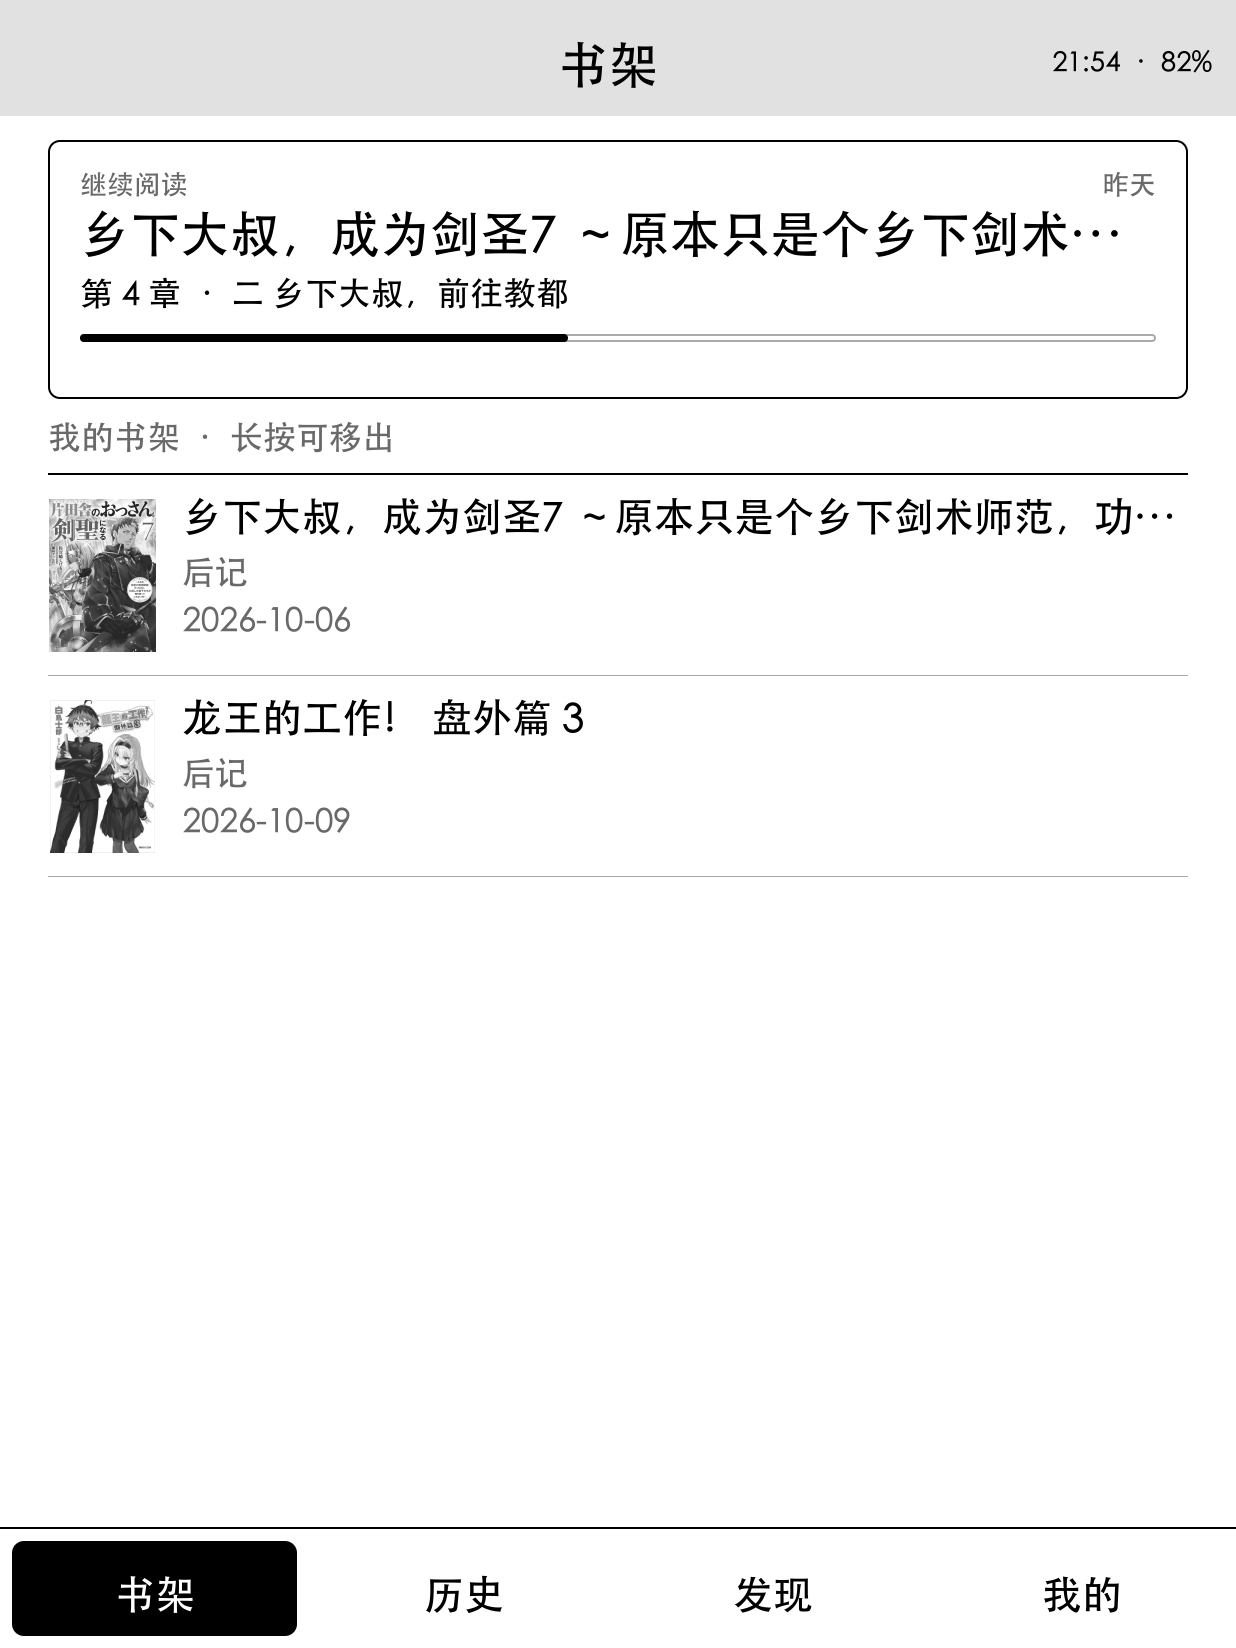
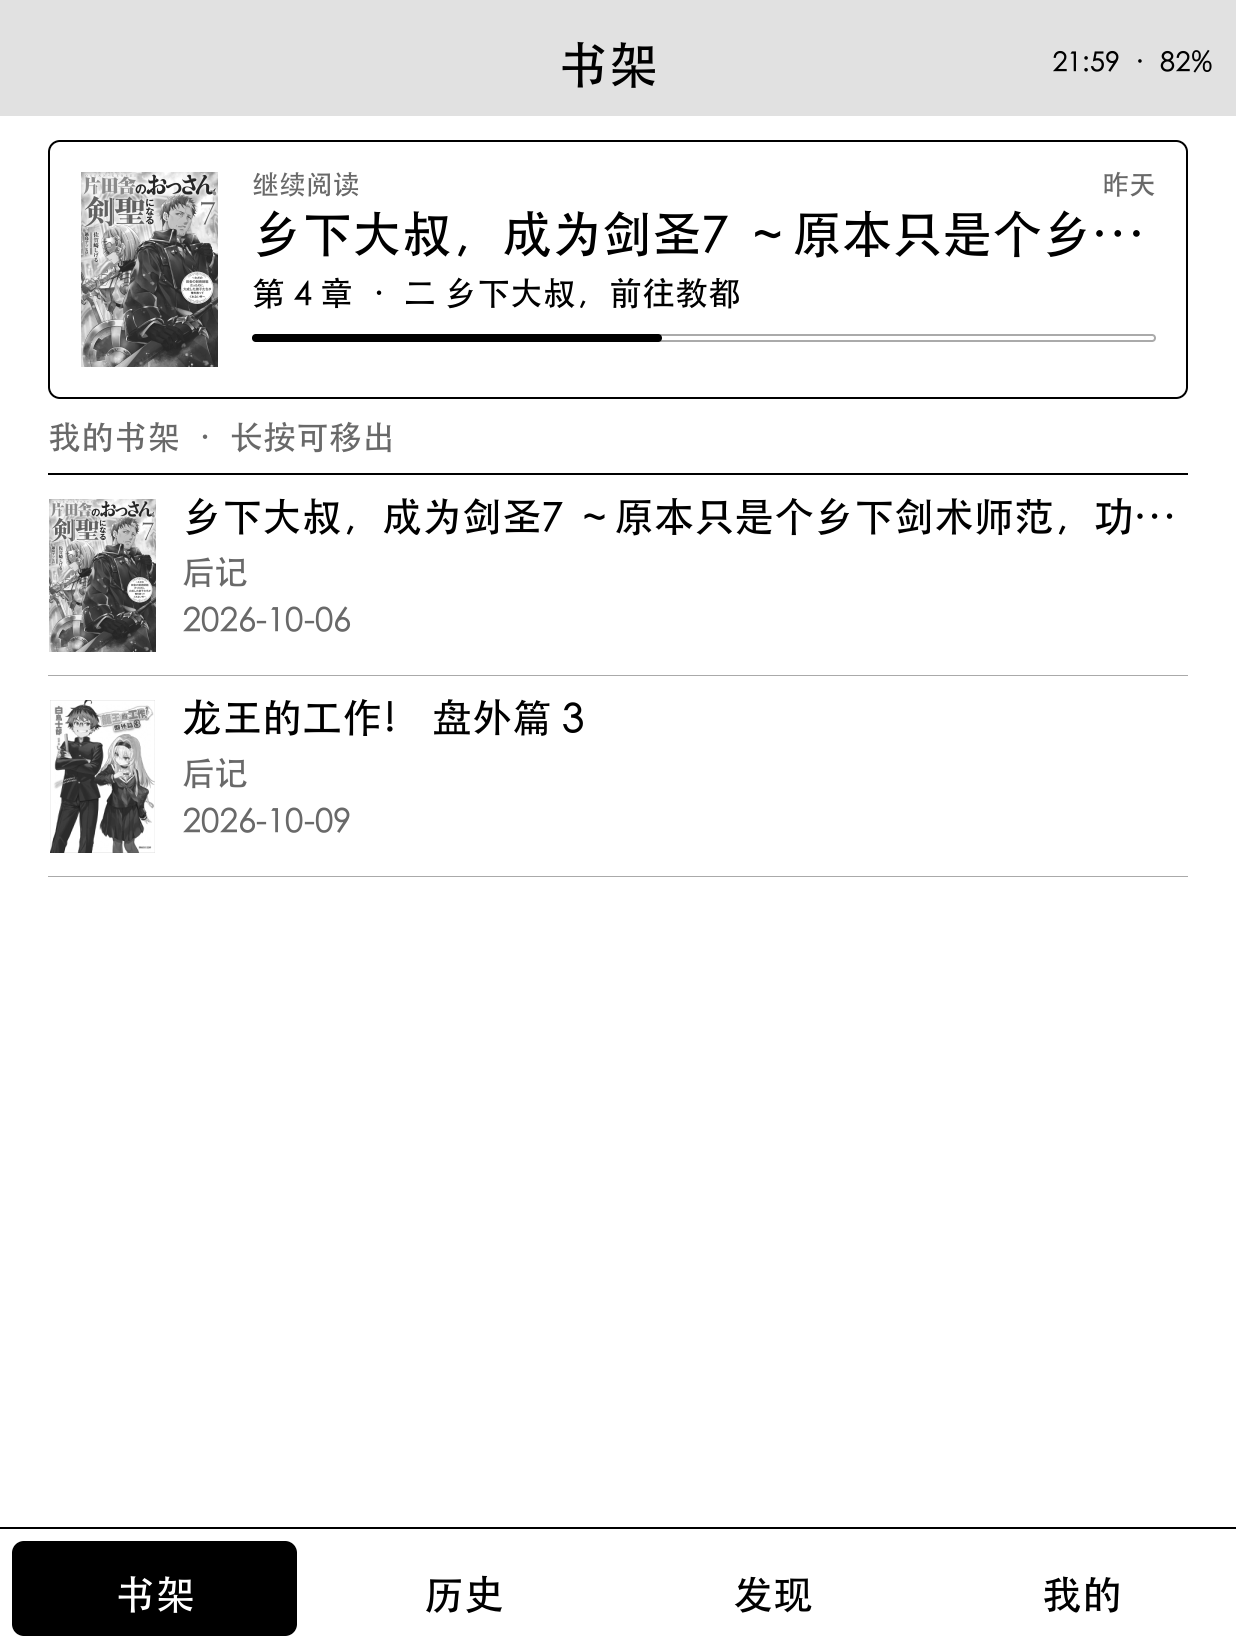
feat(shelf): 继续阅读卡片左侧显示封面
- 最近阅读记录多存一个封面地址 (书目接口里见过的; 新记录没有时沿用同一本书的旧值)
- 不知道封面地址时用缓存的第一章里的第一张图 (卷首图)
- 封面在后台加载, 未加载好时画占位框; 没有任何图片时卡片保持原样
- README 书架截图更新

Changed region(s): [[0.0615, 0.0928, 0.8916, 0.2476]]

diff --git a/rust/crates/kn-app/src/pages/shelf.rs b/rust/crates/kn-app/src/pages/shelf.rs
@@ -42,6 +42,8 @@ struct CachedBook {
 
 struct Loaded {
     last: Option<LastRead>,
+    /// 继续阅读卡片的封面: 记录里的封面地址, 没有就用第一章的卷首图
+    last_cover: String,
     books: Vec<CachedBook>,
 }
 
@@ -57,7 +59,23 @@ fn load(paths: &store::Paths) -> Loaded {
     if let Some(l) = &last {
         books.sort_by_key(|b| b.book_id != l.book_id);
     }
-    Loaded { last, books }
+    let last_cover = match &last {
+        Some(l) if !l.cover.is_empty() => l.cover.clone(),
+        Some(l) => crate::sleep::known_cover(l.book_id).or_else(|| store::first_image_of_book(paths, l.book_id)).unwrap_or_default(),
+        None => String::new(),
+    };
+    Loaded { last, last_cover, books }
+}
+
+/// 继续阅读卡片的高度与其中封面的位置 (卡片内边距之内, 宽高比 0.72)。
+fn continue_layout(m: &kn_ui::widgets::Metrics, rect: Rect) -> Rect {
+    let pad = m.margin as i32 / 2 + 8;
+    let h = (rect.h as i32 - 2 * pad).max(1);
+    Rect::new(rect.x + pad, rect.y + pad, ((h as f32) * 0.72) as u32, h as u32)
+}
+
+fn continue_h(m: &kn_ui::widgets::Metrics) -> u32 {
+    (m.touch as f32 * 2.45) as u32
 }
 
 /// 列表分页: 可用高度里放得下几行。
@@ -110,18 +128,33 @@ fn draw_folder_icon(frame: &mut Bitmap, theme: &kn_ui::Theme, m: &kn_ui::widgets
 }
 
 /// "继续阅读" 卡片 (整张卡片可点)。
-fn draw_continue(frame: &mut Bitmap, ink: &mut Ink, hits: &mut kn_ui::Hits, theme: kn_ui::Theme, m: kn_ui::widgets::Metrics, rect: Rect, last: &LastRead) {
+/// 有封面地址时左侧画封面 (未加载好是占位框), 文字右移。
+#[allow(clippy::too_many_arguments)]
+fn draw_continue(frame: &mut Bitmap, ink: &mut Ink, hits: &mut kn_ui::Hits, theme: kn_ui::Theme, m: kn_ui::widgets::Metrics, rect: Rect, last: &LastRead, cover: Option<Option<&Bitmap>>) {
     widgets::card(frame, &theme, &m, rect);
     let pad = m.margin as i32 / 2 + 8;
-    let inner = rect.w as i32 - 2 * pad;
+    let mut left = rect.x + pad;
+    if let Some(img) = cover {
+        let slot = continue_layout(&m, rect);
+        match img {
+            Some(img) => {
+                let dx = slot.x + (slot.w as i32 - img.width() as i32) / 2;
+                let dy = slot.y + (slot.h as i32 - img.height() as i32) / 2;
+                frame.blit(img, img.bounds(), dx, dy);
+            }
+            None => crate::covers::placeholder(frame, &theme, &m, slot),
+        }
+        left = slot.right() + pad;
+    }
+    let inner = rect.right() - pad - left;
     let mut y = rect.y + pad;
-    ink.text(frame, rect.x + pad, y, "继续阅读", m.tiny, theme.muted);
+    ink.text(frame, left, y, "继续阅读", m.tiny, theme.muted);
     let when = super::relative_time(last.time);
     let when_w = ink.width(&when, m.tiny).ceil() as i32;
     ink.text(frame, rect.right() - pad - when_w, y, &when, m.tiny, theme.muted);
     y += (m.tiny * 1.5) as i32;
     let name = ink.fit(&last.book_name, m.title, inner as f32);
-    ink.text(frame, rect.x + pad, y, &name, m.title, theme.foreground);
+    ink.text(frame, left, y, &name, m.title, theme.foreground);
     y += (m.title * 1.35) as i32;
     // 漫画的话名通常自带 "第N话", 不再加前缀; 页码直接写出来 (漫画没有章内百分比的概念)
     let chapter = if last.comic {
@@ -131,11 +164,11 @@ fn draw_continue(frame: &mut Bitmap, ink: &mut Ink, hits: &mut kn_ui::Hits, them
         format!("第 {} 章 · {}", last.sort_num, last.chapter_title)
     };
     let chapter = ink.fit(&chapter, m.small, inner as f32);
-    ink.text(frame, rect.x + pad, y, &chapter, m.small, theme.foreground);
+    ink.text(frame, left, y, &chapter, m.small, theme.foreground);
     y += (m.small * 1.5) as i32;
     // 章内进度条
     let track_h = (8.0 * m.scale).max(6.0) as u32;
-    let track = Rect::new(rect.x + pad, y + 6, inner as u32, track_h);
+    let track = Rect::new(left, y + 6, inner as u32, track_h);
     frame.rounded_rect(track, track_h / 2, Some(theme.background), Some(theme.mid), 2);
     if last.pages > 0 {
         let filled = (inner as f32 * (last.page + 1) as f32 / last.pages as f32).max(track_h as f32) as u32;
@@ -335,7 +368,7 @@ impl ShelfPage {
             let list_bottom = tabs_top - m.pager_h() as i32;
             let mut y = m.header_h() as i32 + m.margin as i32 / 2;
             if show_continue {
-                y += (m.touch as f32 * 2.45) as i32 + m.margin as i32 / 2;
+                y += continue_h(&m) as i32 + m.margin as i32 / 2;
             }
             y += (m.small * 1.6) as i32;
             let row_h = m.row_h_cover();
@@ -347,6 +380,15 @@ impl ShelfPage {
                 if let ShelfEntry::Book(book) = entry {
                     self.covers.request(cx, &book.cover, cover_rect.w, cover_rect.h);
                 }
+            }
+        }
+
+        // 继续阅读卡片的封面 (与下面绘制时的位置一致)
+        let continue_rect = Rect::new(m.margin as i32, m.header_h() as i32 + m.margin as i32 / 2, cx.width - 2 * m.margin, continue_h(&m));
+        let continue_slot = continue_layout(&m, continue_rect);
+        if let Some(data) = &self.data {
+            if data.last.is_some() && !data.last_cover.is_empty() {
+                self.covers.request(cx, &data.last_cover, continue_slot.w, continue_slot.h);
             }
         }
 
@@ -368,9 +410,9 @@ impl ShelfPage {
             return;
         };
         if let Some(last) = data.last.clone().filter(|_| show_continue || !cloud_mode) {
-            let h = (m.touch as f32 * 2.45) as u32;
-            let rect = Rect::new(side, y, cx.width - 2 * m.margin, h);
-            draw_continue(frame, &mut ink, cx.hits, theme, m, rect, &last);
+            let rect = Rect::new(side, y, cx.width - 2 * m.margin, continue_h(&m));
+            let cover = (!data.last_cover.is_empty()).then(|| self.covers.get(&data.last_cover, continue_slot.w, continue_slot.h));
+            draw_continue(frame, &mut ink, cx.hits, theme, m, rect, &last, cover);
             y = rect.bottom() + m.margin as i32 / 2;
         }
         let list_bottom = tabs_top - m.pager_h() as i32;

diff --git a/rust/crates/kn-app/src/store.rs b/rust/crates/kn-app/src/store.rs
@@ -284,6 +284,8 @@ pub struct LastRead {
     pub pages: usize,
     /// Unix 秒
     pub time: i64,
+    /// 封面地址 (书目接口给的; 不知道时为空, 书架卡片改用第一章的卷首图)
+    pub cover: String,
 }
 
 impl Paths {
@@ -304,14 +306,21 @@ pub fn load_last_read(paths: &Paths) -> Option<LastRead> {
         page: as_i64(v.get("page")).max(0) as usize,
         pages: as_i64(v.get("pages")).max(0) as usize,
         time: as_i64(v.get("time")),
+        cover: as_string(v.get("cover")),
     })
     .filter(|r| r.book_id > 0 && if r.comic { r.chapter_id > 0 } else { r.sort_num > 0 })
 }
 
+/// 保存最近阅读。`cover` 为空时沿用上一条记录里同一本书的封面地址。
 pub fn save_last_read(paths: &Paths, r: &LastRead) -> std::io::Result<()> {
+    let cover = if r.cover.is_empty() {
+        load_last_read(paths).filter(|old| old.book_id == r.book_id).map(|old| old.cover).unwrap_or_default()
+    } else {
+        r.cover.clone()
+    };
     let v = serde_json::json!({
         "book_id": r.book_id, "sort_num": r.sort_num, "comic": r.comic, "chapter_id": r.chapter_id, "book_name": r.book_name,
-        "chapter_title": r.chapter_title, "page": r.page, "pages": r.pages, "time": r.time,
+        "chapter_title": r.chapter_title, "page": r.page, "pages": r.pages, "time": r.time, "cover": cover,
     });
     atomic_write(&paths.last_read_file(), v.to_string().as_bytes())
 }
@@ -398,6 +407,16 @@ pub fn touch(path: &Path) {
 }
 
 /// 缓存目录里的章节 (书名、章节名、序号), 供离线书架使用。按书名、序号排序。
+/// 一本书缓存的第一章 (序号 1) 里的第一张图 (卷首图, 通常就是封面); 没缓存或没有图返回 None。
+pub fn first_image_of_book(paths: &Paths, book_id: i64) -> Option<String> {
+    let (_, file) = list_cached_chapters(paths).into_iter().find(|(c, _)| c.book_id == book_id && c.sort_num == 1)?;
+    let chapter = Chapter::parse(&std::fs::read(file).ok()?, true)?;
+    kn_text::extract_blocks(&chapter.content, SITE_BASE)
+        .into_iter()
+        .find(|b| b.kind == kn_text::BlockKind::Image && !b.source_url.is_empty())
+        .map(|b| b.source_url)
+}
+
 pub fn list_cached_chapters(paths: &Paths) -> Vec<(Chapter, PathBuf)> {
     let mut out = Vec::new();
     let Ok(dir) = std::fs::read_dir(paths.cache_dir().join("content")) else {

diff --git a/rust/crates/kn-app/src/pages/reader.rs b/rust/crates/kn-app/src/pages/reader.rs
@@ -304,6 +304,7 @@ impl ReaderPage {
             page: self.page,
             pages: self.pages.len(),
             time: store::unix_now(),
+            cover: crate::sleep::known_cover(self.book_id).unwrap_or_default(),
         };
         if let Err(e) = store::save_last_read(&cx.app.paths, &last) {
             eprintln!("[reader] 最近阅读保存失败: {e}");

diff --git a/rust/crates/kn-app/src/sleep.rs b/rust/crates/kn-app/src/sleep.rs
@@ -38,6 +38,11 @@ pub fn note_cover(book_id: i64, url: &str) {
     }
 }
 
+/// 书目接口里见过的封面地址。
+pub fn known_cover(book_id: i64) -> Option<String> {
+    covers().lock().unwrap_or_else(|e| e.into_inner()).get(&book_id).cloned()
+}
+
 fn cover_file(paths: &Paths) -> std::path::PathBuf {
     paths.data_dir().join("sleep_cover.json")
 }

diff --git a/rust/crates/kn-app/src/pages/comic.rs b/rust/crates/kn-app/src/pages/comic.rs
@@ -508,6 +508,7 @@ impl ComicReaderPage {
             page: self.page,
             pages: self.total(),
             time: now,
+            cover: crate::sleep::known_cover(self.book_id).unwrap_or_default(),
         };
         if let Err(e) = store::save_last_read(&cx.app.paths, &last) {
             eprintln!("[comic] 最近阅读保存失败: {e}");

diff --git a/rust/UI-DESIGN.md b/rust/UI-DESIGN.md
@@ -38,7 +38,7 @@ Colours: day = white bg / black fg, `muted` 105 for secondary text, `mid` 170 fo
 
 - The app opens on **书架** (shelf). There is no menu grid any more.
 - Four top-level tabs; switching tabs replaces the stack root (`Transition::Home`-like), never deepens it.
-  - **书架** — "继续阅读" card (last book/chapter/page, one tap → reader at the saved position), then the user's shelf (cloud shelf when logged in, offline cache otherwise).
+  - **书架** — "继续阅读" card (cover on the left — the catalog cover URL remembered with the last-read record, else the first image of the cached first chapter; last book/chapter/page; one tap → reader at the saved position), then the user's shelf (cloud shelf when logged in, offline cache otherwise).
     Cloud folders show as rows with a folder icon; tapping one opens it in place (header gets a back arrow to the parent level, the stack does not grow).
     Long press a book → confirm "移出书架"; long press a folder → confirm delete (its books move up one level). Every write fetches the shelf fresh,
     changes one entry and saves the whole table (`SaveBookShelf` overwrites); the result shows as a toast.
